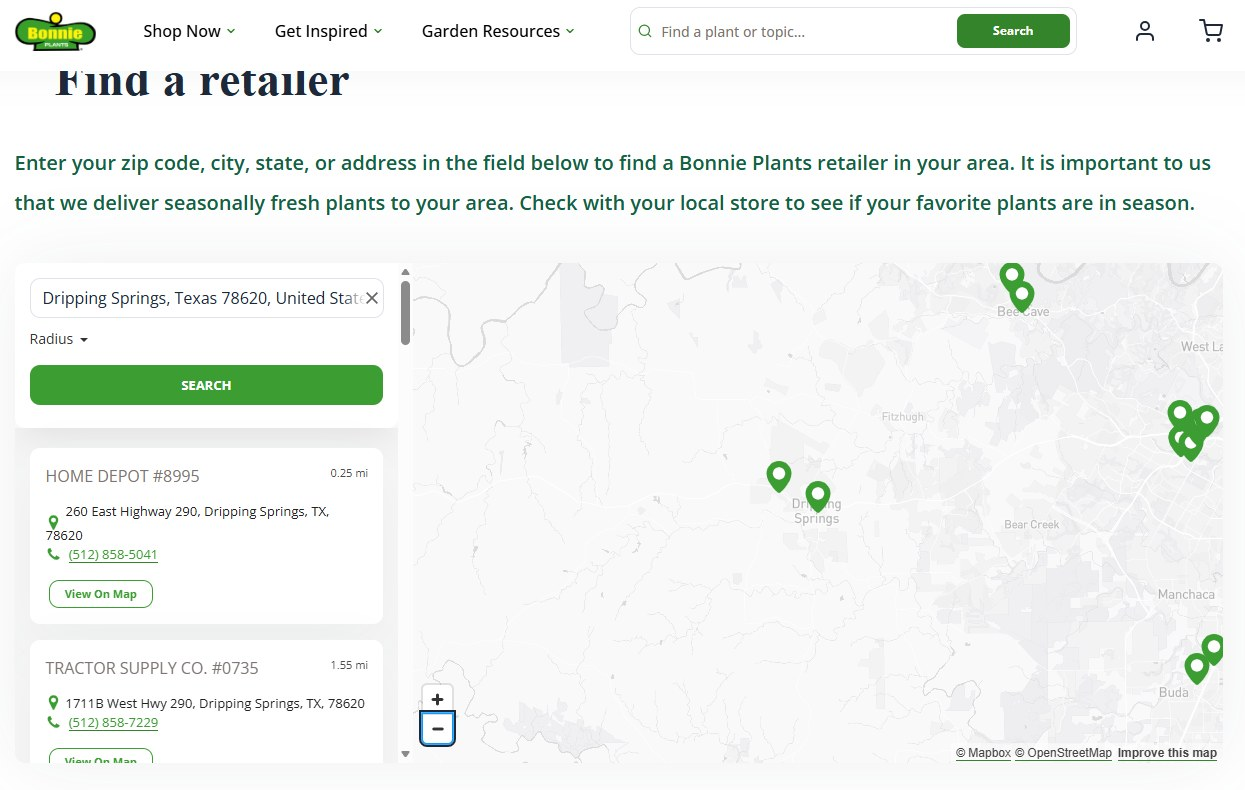
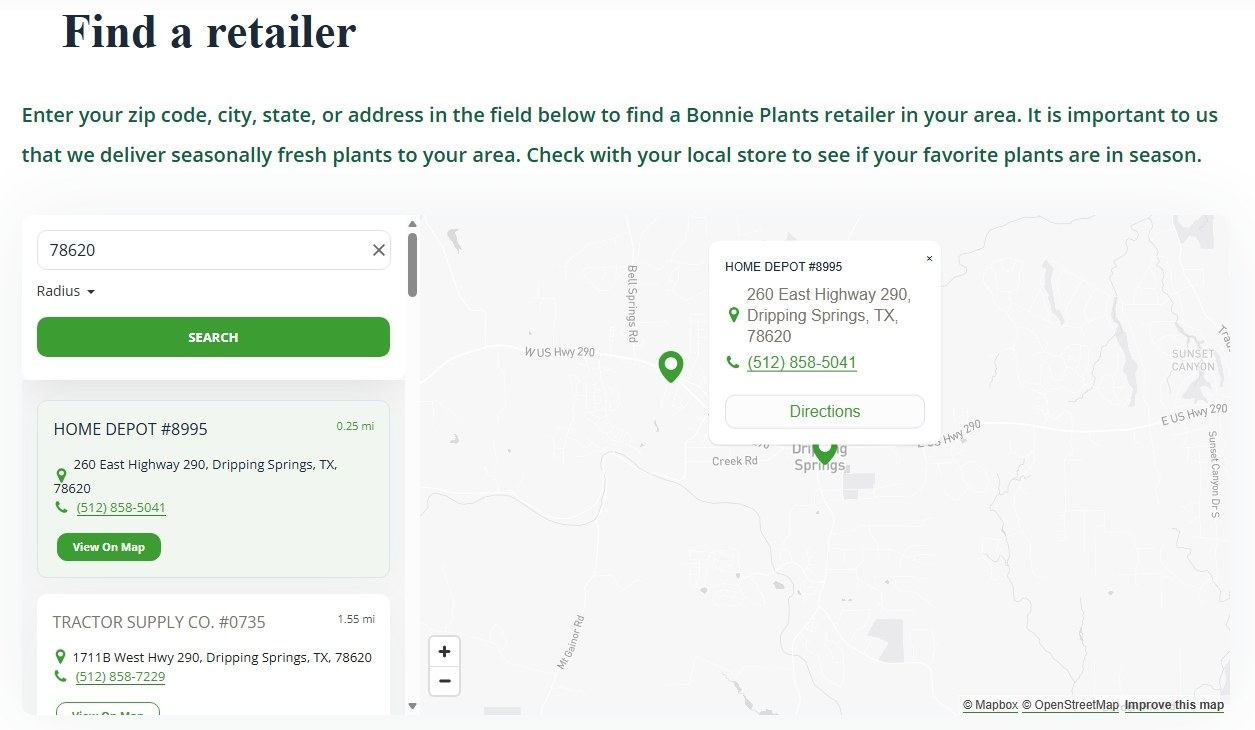
Research page: new store finder screenshot, uncropped

diff --git a/research/index.html b/research/index.html
@@ -472,16 +472,16 @@
       </div>
       <div class="part-wide">
         <div class="shots" style="--cols: repeat(3, minmax(0, 1fr))">
-          <figure class="shot" style="--ratio: 4 / 3">
-            <img src="assets/img/site/store-finder.jpg" alt="Bonnie’s store finder showing results for Dripping Springs, Texas" loading="lazy" style="object-position: left top">
+          <figure class="shot" style="--ratio: 1255 / 730">
+            <img src="assets/img/site/store-finder.jpg" alt="Bonnie’s store finder showing results for Dripping Springs, Texas" loading="lazy">
             <figcaption class="body-small">Bonnie’s store finder, searched for Dripping Springs, TX. No stock, no product filter and no link to the retailer.</figcaption>
           </figure>
-          <figure class="shot" style="--ratio: 4 / 3">
+          <figure class="shot" style="--ratio: 865 / 742">
             <img src="assets/img/site/pagespeed-mobile.jpg" alt="Google PageSpeed Insights mobile results for the Bonnie home page, scoring 26" loading="lazy">
             <figcaption class="body-small">Google PageSpeed Insights, mobile, Bonnie’s home page, Nov 18, 2026.</figcaption>
           </figure>
-          <figure class="shot" style="--ratio: 4 / 3">
-            <img src="assets/img/site/zone-page.jpg" alt="Bonnie’s planting zone page with the USDA zip code zone map embedded" loading="lazy" style="object-position: left top">
+          <figure class="shot" style="--ratio: 1229 / 810">
+            <img src="assets/img/site/zone-page.jpg" alt="Bonnie’s planting zone page with the USDA zip code zone map embedded" loading="lazy">
             <figcaption class="body-small">Bonnie’s zone page embeds the USDA’s zip lookup.</figcaption>
           </figure>
         </div>
